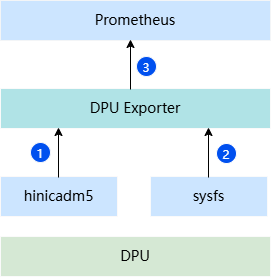
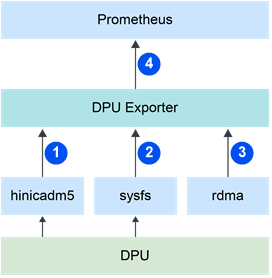
[Feature] add rdma doc for dpu-exporter

diff --git a/component/dpu-exporter/README.md b/component/dpu-exporter/README.md
@@ -13,11 +13,12 @@
 
 ## 简介
 
-- 在任务运行过程中，DPU的健康状态直接影响任务的稳定性。MindCluster提供DPU Exporter组件用于监测DPU的运行状态与各项统计指标。当前提供的指标可分为两类：
-  - **全局指标**：涵盖RoCE错包、丢包、接收ECN、发送/接收CNP及PSN异常重传等统计指标。
+- 在任务运行过程中，DPU的健康状态直接影响任务的稳定性。MindCluster提供DPU Exporter组件用于监测DPU的运行状态与各项统计指标。当前提供的指标可分为三类：
+  - **全局指标（DPU卡级）**：涵盖RoCE错包、丢包、接收ECN、发送/接收CNP及PSN异常重传等统计指标。
+  - **全局指标（RDMA设备级）**：包括RDMA设备上的保护域（PD）、完成队列（CQ）、队列对（QP）、通信管理ID（CM ID）、内存区域（MR）、上下文（CTX）及共享接收队列（SRQ）资源计数。
   - **Interface级指标**：涵盖每个网卡端口的链路运行状态、收发流量与异常错误状态等指标。
 - 主要功能：
-  - 从网卡管理工具与文件系统接口分别获取DPU的全局指标与Interface级指标。
+  - 从网卡管理工具、Linux RDMA子系统与文件系统接口分别获取DPU卡级全局指标、RDMA设备级指标与Interface级指标。
   - 提供Prometheus指标接口，用于监控DPU的运行状态与各项统计指标。
 
 ## 软件架构
@@ -28,7 +29,8 @@
 
 1. 从网卡管理工具hinicadm5获取DPU全局指标，放入缓存。
 2. 从sysfs文件系统获取Interface级指标，放入缓存。
-3. 实现Prometheus的指标接口，供其周期性获取缓存中的数据信息。
+3. 通过`rdma resource show`获取RDMA设备级指标，放入缓存。
+4. 实现Prometheus的指标接口，供其周期性获取缓存中的数据信息。
 
 ### 组件架构
 
@@ -51,9 +53,10 @@ flowchart BT
     %% ===== 最底层：硬件 =====
     DPU["DPU"]
 
-    %% ===== 数据来源：网卡管理工具与文件接口 =====
+    %% ===== 数据来源：网卡管理工具、文件接口与RDMA子系统 =====
     TOOL["网卡管理工具 hinicadm5"]
     SYS["sysfs 文件接口<br/>/sys/class/net/"]
+    RDMA["RDMA设备 / 内核RDMA子系统<br/>rdma resource show"]
 
     subgraph op["DPU Exporter（DaemonSet，部署于DPU节点）"]
         direction BT
@@ -68,8 +71,9 @@ flowchart BT
         subgraph collect["数据采集层（DpuCollector 采集引擎周期调度）"]
             direction LR
             DM["DeviceManager<br/>设备管理"]
-            C1["Hinicadm5 采集器<br/>全局指标"]
-            C2["Sysfs 采集器<br/>Interface 级指标"]
+            C1["Hinicadm5 采集器<br/>全局指标（DPU卡级）"]
+            C2["Sysfs 采集器<br/>Interface级指标"]
+            C3["RdmaCollector<br/>全局指标（RDMA设备级）"]
         end
 
         CACHE["DpuCache 指标缓存"]
@@ -90,13 +94,16 @@ flowchart BT
     DPU -->|"② 端口状态与统计"| SYS
     TOOL -->|"③ exec 调用"| DM
     SYS -->|"④ 文件读取"| DM
+    RDMA -->|"⑤ 资源查询"| DM
     DM --> C1
     DM --> C2
+    DM --> C3
     C1 --> CACHE
     C2 --> CACHE
+    C3 --> CACHE
     CACHE --> S1
-    S1 -->|"⑤ HTTP 拉取 metrics"| PROM
-    S2 -->|"⑥ 存活探针检查"| K8S
+    S1 -->|"⑥ HTTP 拉取 metrics"| PROM
+    S2 -->|"⑦ 存活探针检查"| K8S
 
     style op fill:#ffffff,stroke:#9ca3af,stroke-width:2px,color:#111827
     style collect fill:#eaf3fc,stroke:#7fb2e5,stroke-width:1.5px,color:#1e3a5f
@@ -112,9 +119,9 @@ flowchart BT
     classDef extension fill:#e4d6f7,stroke:#7c3aed,stroke-width:2px,color:#3b1e73
 
     class DPU hardware
-    class TOOL,SYS upstream
+    class TOOL,RDMA,SYS upstream
     class PROM,K8S downstream
-    class DM,C1,C2 collector
+    class DM,C1,C2,C3 collector
     class S1,S2 server
     class E1,E2,E3 extension
 ```

diff --git a/docs/zh/scheduling/01_introduction/01_component_description.md b/docs/zh/scheduling/01_introduction/01_component_description.md
@@ -409,14 +409,15 @@ Kubernetes通过设备组件（如K8s RDMA Shared Dev Plugin）感知并上报UB
 
 **应用场景<a name="section15761025111720"></a>**
 
-在任务运行过程中，DPU的健康状态直接影响任务的稳定性。MindCluster提供DPU Exporter组件用于监测DPU的运行状态与各项统计指标。当前提供的指标可分为两类：
+在任务运行过程中，DPU的健康状态直接影响任务的稳定性。MindCluster提供DPU Exporter组件用于监测DPU的运行状态与各项统计指标。当前提供的指标可分为三类：
 
-- **全局指标**：涵盖RoCE错包、丢包、接收ECN、发送/接收CNP及PSN异常重传等统计指标。
-- **interface级指标**：涵盖每个网卡端口的链路运行状态、收发流量与异常错误状态等指标。
+- **全局指标（DPU卡级）**：涵盖RoCE错包、丢包、接收ECN、发送/接收CNP及PSN异常重传等统计指标。
+- **全局指标（RDMA设备级）**：包括RDMA设备上的保护域（PD）、完成队列（CQ）、队列对（QP）、通信管理ID（CM ID）、内存区域（MR）、上下文（CTX）及共享接收队列（SRQ）资源计数。
+- **Interface级指标**：涵盖每个网卡端口的链路运行状态、收发流量与异常错误状态等指标。
 
 **组件功能<a name="section388944161719"></a>**
 
-- 从网卡管理工具与文件系统接口分别获取DPU的全局指标与interface级指标。
+- 从网卡管理工具、Linux RDMA子系统与文件系统接口分别获取DPU卡级全局指标、RDMA设备级指标与Interface级指标。
 - 提供Prometheus指标接口，用于监控DPU的运行状态与各项统计指标。
 
 **组件上下游依赖<a name="section4941922192110"></a>**
@@ -426,8 +427,9 @@ Kubernetes通过设备组件（如K8s RDMA Shared Dev Plugin）感知并上报UB
 ![](../../figures/scheduling/组件上下游依赖-9.png "组件上下游依赖-9")
 
 1. 从网卡管理工具hinicadm5获取DPU全局指标，放入缓存。
-2. 从sysfs文件系统获取interface级指标，放入缓存。
-3. 实现Prometheus的指标接口，供其周期性获取缓存中的数据信息。
+2. 从sysfs文件系统获取Interface级指标，放入缓存。
+3. 通过`rdma resource show`获取RDMA设备级指标，放入缓存。
+4. 实现Prometheus的指标接口，供其周期性获取缓存中的数据信息。
 <!-- end id6 -->
 
 <!-- npu="950,A3,910b" id7 -->

diff --git a/docs/zh/scheduling/04_usage/01_resource_monitoring/01_dpu_resource_monitoring/02_working_with_prometheus.md b/docs/zh/scheduling/04_usage/01_resource_monitoring/01_dpu_resource_monitoring/02_working_with_prometheus.md
@@ -92,7 +92,7 @@
 
         在prometheus.yaml文件中找到nodePort字段，该字段的值为Prometheus服务的端口号，默认为30003。
 
-    3. 选择DPU的相关标签，查看对应数据信息。例如查询集群内DPU卡的interface级收流量指标，可在查询框中输入`dpu_interface_rx_bytes`；查询DPU卡的全局RoCE接收ECN指标，可输入`dpu_roce_dp_ctr_rr_ecn_rx`。所有指标名以`dpu_`（全局指标）和`dpu_interface_`（interface级指标）为前缀，详见[Prometheus Metrics接口](../../../06_api/16_dpu_exporter.md)章节。
+    3. 选择DPU的相关标签，查看对应数据信息。例如查询集群内DPU卡的Interface级接收流量指标，可在查询框中输入`dpu_interface_rx_bytes`；查询DPU卡的全局RoCE接收ECN指标，可输入`dpu_roce_dp_ctr_rr_ecn_rx`；查询RDMA设备级队列对数量，可输入`dpu_roce_qp`。所有指标名以`dpu_`（全局指标）和`dpu_interface_`（Interface级指标）为前缀，详见[Prometheus Metrics接口](../../../06_api/16_dpu_exporter.md)章节。
 
 ## 通过Prometheus Operator对接Prometheus<a name="section1031014512341"></a>
 
@@ -268,4 +268,4 @@
 
         在prometheus.yaml文件中找到nodePort字段，该字段的值为Prometheus服务的端口号，默认为30003。
 
-    3. 选择DPU的相关标签，查看对应数据信息。例如查询集群内DPU卡的interface级链路载波状态，可在查询框中输入`dpu_interface_carrier`；查询DPU卡的全局RoCE接收ECN指标，可输入`dpu_roce_dp_ctr_rr_ecn_rx`。所有指标名以`dpu_`（全局指标）和`dpu_interface_`（interface级指标）为前缀，详见[Prometheus Metrics接口](../../../06_api/16_dpu_exporter.md)章节。
+    3. 选择DPU的相关标签，查看对应数据信息。例如查询集群内DPU卡的Interface级链路载波状态，可在查询框中输入`dpu_interface_carrier`；查询DPU卡的全局RoCE接收ECN指标，可输入`dpu_roce_dp_ctr_rr_ecn_rx`；查询RDMA设备级队列对数量，可输入`dpu_roce_qp`。所有指标名以`dpu_`（全局指标）和`dpu_interface_`（Interface级指标）为前缀，详见[Prometheus Metrics接口](../../../06_api/16_dpu_exporter.md)章节。

diff --git a/docs/zh/scheduling/04_usage/01_resource_monitoring/01_dpu_resource_monitoring/01_working_principle.md b/docs/zh/scheduling/04_usage/01_resource_monitoring/01_dpu_resource_monitoring/01_working_principle.md
@@ -3,8 +3,9 @@
 DPU资源监测特性的实现原理（以接入Prometheus场景为例）如下所示。
 
 1. DPU Exporter组件周期性调用网卡管理工具hinicadm5，查询DPU卡的RoCE计数器，获取DPU全局指标，放入缓存。
-2. DPU Exporter组件周期性读取sysfs文件系统"/sys/class/net/&lt;interface_name&gt;/"目录下的文件，获取interface级指标，放入缓存。
-3. DPU Exporter组件实现Prometheus的指标接口（/metrics），供Prometheus周期性获取缓存中的数据信息。
+2. DPU Exporter组件周期性读取sysfs文件系统"/sys/class/net/&lt;interface_name&gt;/"目录下的文件，获取Interface级指标，放入缓存。
+3. DPU Exporter组件周期性执行`rdma resource show`命令，从Linux RDMA子系统获取当前网络命名空间内可见的RDMA设备级指标，放入缓存。
+4. DPU Exporter组件实现Prometheus的指标接口（/metrics），供Prometheus周期性获取缓存中的数据信息。
 
 采集周期、指标白名单等配置项可通过config.json配置文件修改，配置修改后自动生效，无需重启组件，详见[DPU Exporter安装部署](../../../05_developer_guide/00_installation_deployment/00_manual_installation/12_dpu_exporter.md)章节。
 

diff --git a/docs/zh/scheduling/01_introduction/02_feature_description.md b/docs/zh/scheduling/01_introduction/02_feature_description.md
@@ -30,7 +30,7 @@ NPU资源监测
 <!-- npu="950" id2 -->
 DPU资源监测
 
-支持监测DPU的运行状态与各项统计指标。包括RoCE错包、丢包、接收ECN、发送/接收CNP及PSN异常重传等DPU全局指标以及每个网卡端口的链路运行状态、收发流量与异常错误状态等Interface级指标。
+支持监测DPU的运行状态与各项统计指标：DPU全局指标包括RoCE错包、丢包、接收ECN、发送/接收CNP及PSN异常重传等；RDMA设备级全局指标包括保护域（PD）、完成队列（CQ）、队列对（QP）、通信管理ID（CM ID）、内存区域（MR）、上下文（CTX）及共享接收队列（SRQ）；Interface级指标包括每个网卡端口的链路运行状态、收发流量与异常错误状态等。
 <!-- end id2 -->
 
 **所需组件<a name="section15655185785119"></a>**
